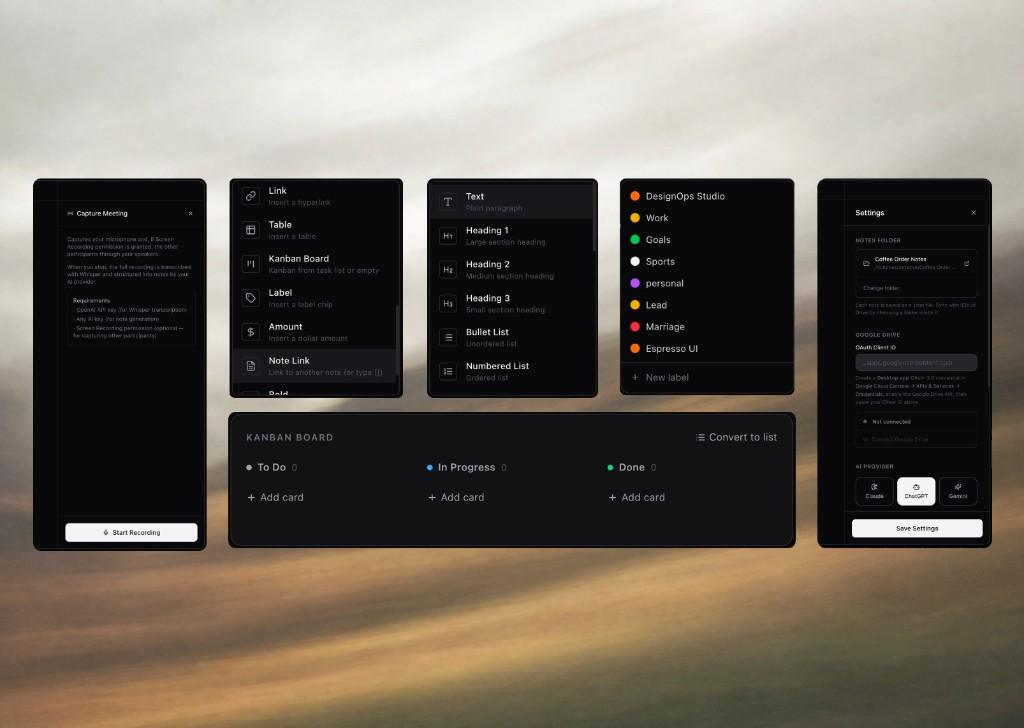
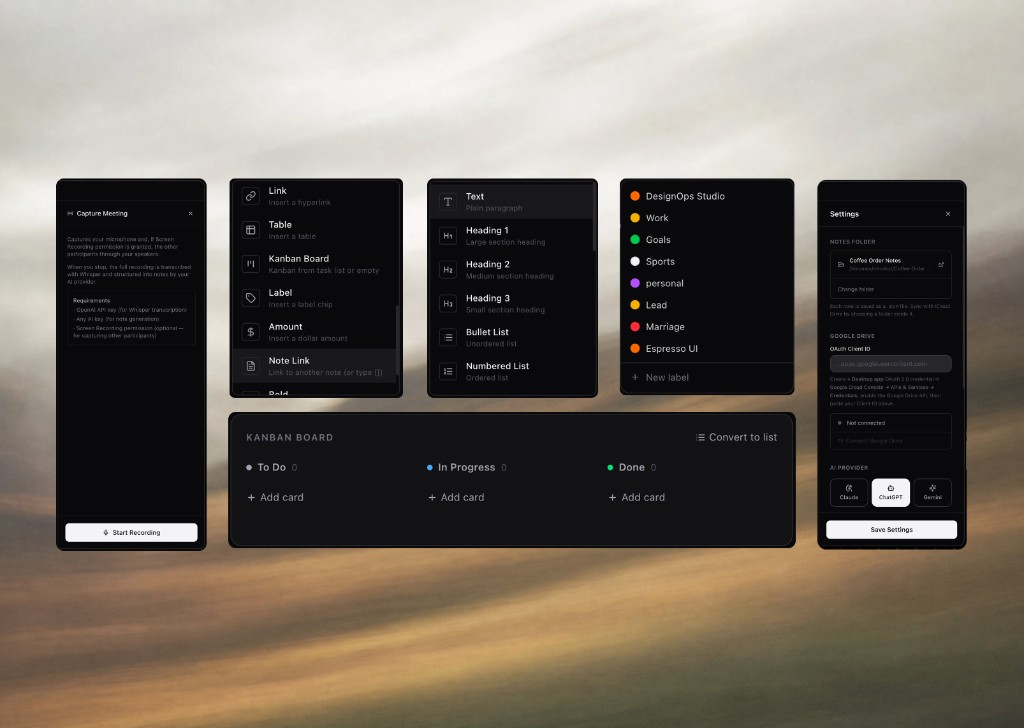
Fix mobile carousel sizing and update Coffee Order Notes UI slide.
Size slides to each image aspect ratio on small screens and replace the third carousel screenshot.

diff --git a/src/components/WorkCarousel.tsx b/src/components/WorkCarousel.tsx
@@ -8,7 +8,7 @@ const CAROUSEL_HEIGHT = {
   md: 460,
 };
 
-const WORK_IMAGE_VERSION = "9";
+const WORK_IMAGE_VERSION = "10";
 
 const workItems = [
   {
@@ -103,13 +103,34 @@ function getCarouselHeight(viewportWidth: number) {
   return CAROUSEL_HEIGHT.base;
 }
 
-function getSlideWidth(
+function getSlideDimensions(
   item: (typeof workItems)[0],
   carouselHeight: number,
-  trackWidth: number
+  trackWidth: number,
+  viewportWidth: number
 ) {
-  const naturalWidth = carouselHeight * (item.width / item.height);
-  return Math.min(naturalWidth, Math.max(trackWidth - 24, 240));
+  const aspectRatio = item.width / item.height;
+
+  if (viewportWidth < 768) {
+    const maxWidth = Math.max(trackWidth - 12, 260);
+    const maxHeight = Math.min(Math.round(viewportWidth * 0.72), 420);
+
+    let width = maxWidth;
+    let height = width / aspectRatio;
+
+    if (height > maxHeight) {
+      height = maxHeight;
+      width = height * aspectRatio;
+    }
+
+    return { width, height };
+  }
+
+  const naturalWidth = carouselHeight * aspectRatio;
+  return {
+    width: Math.min(naturalWidth, Math.max(trackWidth - 24, 240)),
+    height: carouselHeight,
+  };
 }
 
 export function WorkCarousel() {
@@ -122,6 +143,7 @@ export function WorkCarousel() {
   const [trackWidth, setTrackWidth] = useState(800);
 
   const carouselHeight = getCarouselHeight(viewportWidth);
+  const isMobile = viewportWidth < 768;
 
   const updateScrollState = useCallback(() => {
     const el = scrollRef.current;
@@ -211,13 +233,14 @@ export function WorkCarousel() {
 
         <div
           ref={scrollRef}
-          className="flex items-start gap-5 overflow-x-auto hide-scrollbar snap-x snap-mandatory pl-6 pb-4"
+          className="flex items-start gap-4 overflow-x-auto hide-scrollbar snap-x snap-mandatory pb-4 md:gap-5 md:pl-6"
         >
           {workItems.map((item, i) => {
-            const slideWidth = getSlideWidth(
+            const { width: slideWidth, height: slideHeight } = getSlideDimensions(
               item,
               carouselHeight,
-              trackWidth
+              trackWidth,
+              viewportWidth
             );
 
             return (
@@ -228,7 +251,7 @@ export function WorkCarousel() {
                 }}
                 className="flex-shrink-0 snap-start"
               >
-                <div style={{ width: slideWidth, height: carouselHeight }}>
+                <div style={{ width: slideWidth, height: slideHeight }}>
                   <FramedImage
                     src={item.src}
                     alt={item.alt}
@@ -236,6 +259,7 @@ export function WorkCarousel() {
                     height={item.height}
                     priority={i < 2}
                     fill
+                    objectFit={isMobile ? "contain" : "cover"}
                     className="h-full w-full"
                   />
                 </div>
@@ -245,7 +269,7 @@ export function WorkCarousel() {
           })}
         </div>
 
-        <div className="mt-8 flex items-center justify-between pl-6">
+        <div className="mt-8 flex items-center justify-between md:pl-6">
           <div className="flex gap-2">
             {workItems.map((_, i) => (
               <button